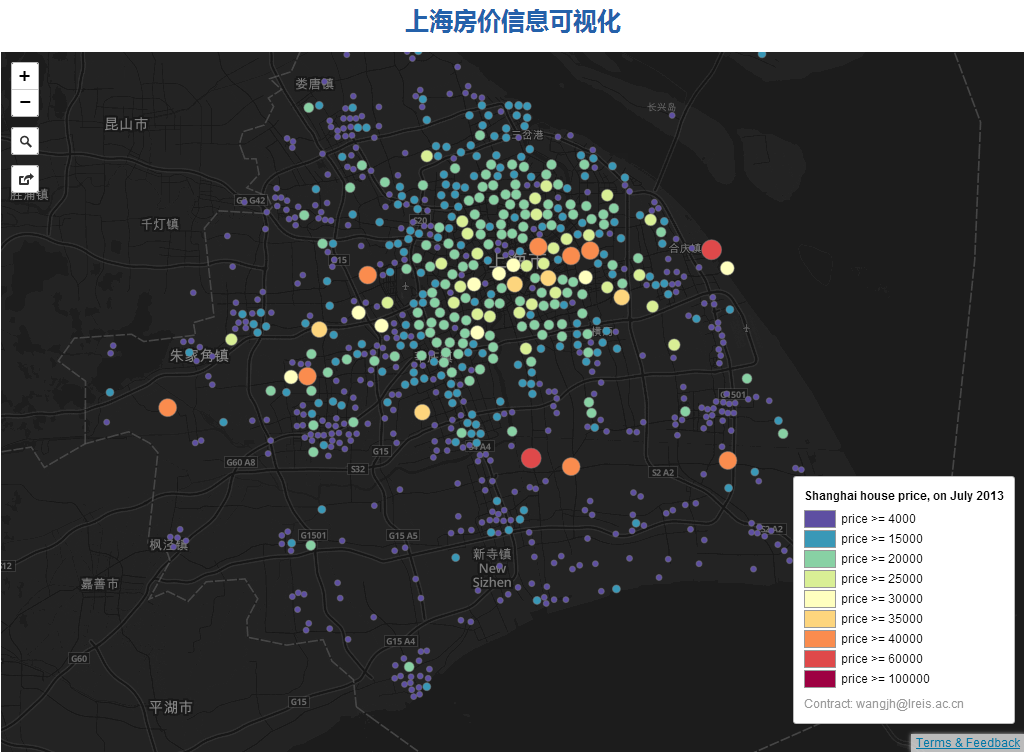
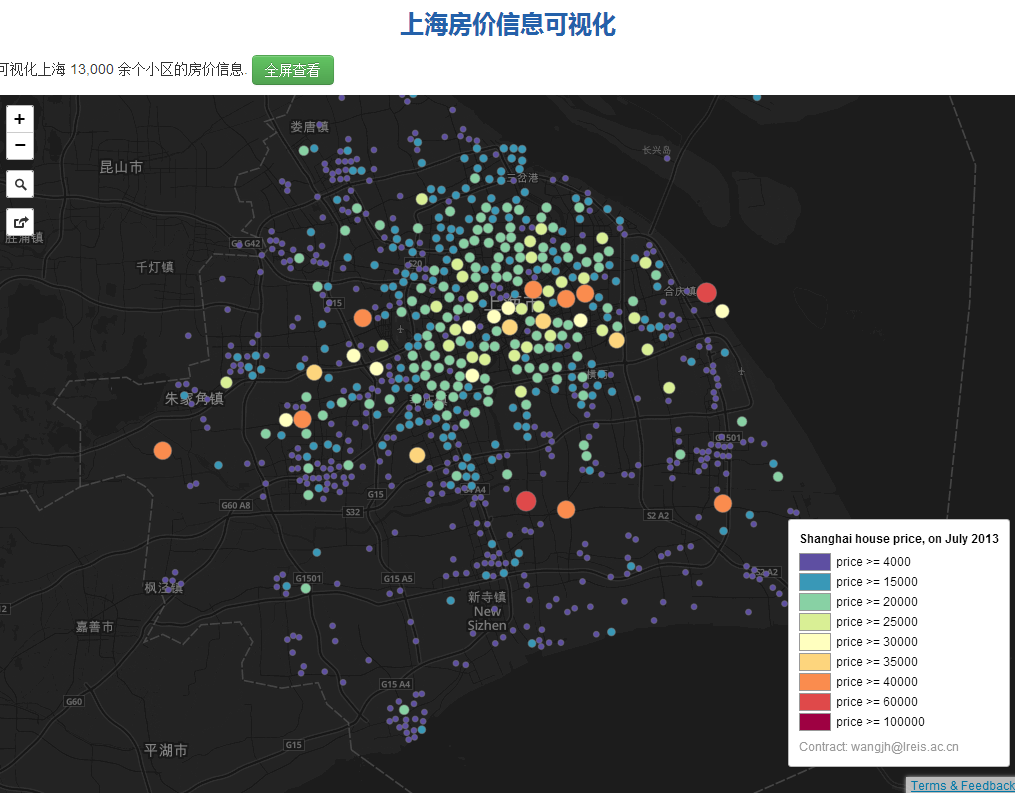
big change

diff --git a/guangzhou.htm b/guangzhou.htm
@@ -3,7 +3,7 @@
     <meta name="viewport" content="width=device-width, initial-scale=1">
     <meta content="text/html; charset=UTF-8" http-equiv="Content-Type">
 
-    <title>全国重点城市房价信息可视化</title>
+    <title>广州房价信息可视化</title>
 
     <link href="css/bootstrap.css" rel="stylesheet">
     <link href="css/style.css" rel="stylesheet">
@@ -16,7 +16,7 @@
  <body >
      <div class="container">
       <div class="masthead">
-        <h3 class="muted">全国重点城市房价信息可视化</h3>
+        <h3 class="muted">重点城市房价信息可视化</h3>
         <div class="navbar">
           <div class="navbar-inner">
             <div class="container">
@@ -33,21 +33,38 @@
         </div><!-- /.navbar -->
       </div><!-- /.masthead -->
   <center>
-		<h3>广州房价信息可视化（待完善）</h3>
-	</center>
+    <h3>广州房价信息可视化</h3>
+  </center>
+
+ <p>可视化广州 5,000 余个小区的房价信息。<a href="http://a.tiles.mapbox.com/v3/hellowangjh.g6p8e9jf.html#11/23.157722401082/113.3517837524414" class="btn btn-success"> 全屏查看</a>
+  </p>
+
+	<iframe width='100%' height='700px' frameBorder='0' src='http://a.tiles.mapbox.com/v3/hellowangjh.g6p8e9jf.html#11/23.157722401082/113.3517837524414'></iframe>
+	
+  <!-- Baidu Button BEGIN -->
+  <div id="bdshare" class="bdshare_t bds_tools get-codes-bdshare">
+  <span class="bds_more">分享到：</span>
+  <a class="bds_qzone"></a>
+  <a class="bds_tsina"></a>
+  <a class="bds_tqq"></a>
+  <a class="bds_renren"></a>
+  <a class="bds_t163"></a>
+  <a class="shareCount"></a>
+  </div>
+  <script type="text/javascript" id="bdshare_js" data="type=tools&amp;uid=0" ></script>
+  <script type="text/javascript" id="bdshell_js"></script>
+  <script type="text/javascript">
+  document.getElementById("bdshell_js").src = "http://bdimg.share.baidu.com/static/js/shell_v2.js?cdnversion=" + Math.ceil(new Date()/3600000)
+  </script>
+  <!-- Baidu Button END -->
+
+  <wb:share-button appkey="6dd8SN" addition="number" type="button" ralateUid="2283242060" default_text="妖都广州房价一览图，看来看看" pic="https%3A%2F%2Fraw.github.com%2FJianghao%2FHousePrice%2Fgh-pages%2Fpic%2Fguangzhou.png"></wb:share-button>
+
+<hr/>
 
     <footer>
       <center>
-        <p>数据来源：各大房产信息发布网站。意见反馈：wangjh@lreis.ac.cn；微博：<a href="http://weibo.com/hellowangjh" target="_blank">@沐洲</a><p>
-
-        <ul class="buttons inline">
-          <li class="share-button">
-          </li>
-          <li>
-            <wb:share-button appkey="6dd8SN" addition="number" type="button" pic="https%3A%2F%2Fraw.github.com%2FJianghao%2FHousePrice%2Fgh-pages%2Fpic%2Fchina.png" default_text="全国70个城市6万个小区房价一览图，看来看看吧" ralateUid="2283242060"></wb:share-button>
-          </li>
-        </ul>
-
+        <p>数据来源：各大房产信息发布网站。意见反馈：wangjh@lreis.ac.cn <a href="http://weibo.com/hellowangjh" target="_blank">@沐洲</a><p>
         <p>© Jianghao Wang 2013, All Right Reserved</p>
       </center>
     </footer>

diff --git a/shenzhen.htm b/shenzhen.htm
@@ -3,7 +3,7 @@
     <meta name="viewport" content="width=device-width, initial-scale=1">
     <meta content="text/html; charset=UTF-8" http-equiv="Content-Type">
 
-    <title>全国重点城市房价信息可视化</title>
+    <title>深圳市房价信息可视化</title>
 
     <link href="css/bootstrap.css" rel="stylesheet">
     <link href="css/style.css" rel="stylesheet">
@@ -16,7 +16,7 @@
  <body >
      <div class="container">
       <div class="masthead">
-        <h3 class="muted">全国重点城市房价信息可视化</h3>
+        <h3 class="muted">重点城市房价信息可视化</h3>
         <div class="navbar">
           <div class="navbar-inner">
             <div class="container">
@@ -33,22 +33,36 @@
         </div><!-- /.navbar -->
       </div><!-- /.masthead -->
   <center>
-		<h3>深圳房价信息可视化（待完善）</h3>
+		<h3>深圳房价信息可视化</h3>
 	</center>
+  <p>可视化深圳 4,500 余个小区的房价信息。<a href="http://a.tiles.mapbox.com/v3/hellowangjh.g6palilf/page.html#11/22.6131/114.1692" class="btn btn-success"> 全屏查看</a></p>
 
-  
+  <iframe width='100%' height='700px' frameBorder='0' src='https://a.tiles.mapbox.com/v3/hellowangjh.g6palilf.html?secure=1#11/22.612426231236178/114.16923522949219'></iframe>
+
+  <!-- Baidu Button BEGIN -->
+  <div id="bdshare" class="bdshare_t bds_tools get-codes-bdshare">
+  <span class="bds_more">分享到：</span>
+  <a class="bds_qzone"></a>
+  <a class="bds_tsina"></a>
+  <a class="bds_tqq"></a>
+  <a class="bds_renren"></a>
+  <a class="bds_t163"></a>
+  <a class="shareCount"></a>
+  </div>
+  <script type="text/javascript" id="bdshare_js" data="type=tools&amp;uid=0" ></script>
+  <script type="text/javascript" id="bdshell_js"></script>
+  <script type="text/javascript">
+  document.getElementById("bdshell_js").src = "http://bdimg.share.baidu.com/static/js/shell_v2.js?cdnversion=" + Math.ceil(new Date()/3600000)
+  </script>
+  <!-- Baidu Button END -->
+
+  <wb:share-button appkey="6dd8SN" addition="number" type="button" ralateUid="2283242060" default_text="雌都深圳房价一览图，看来看看" pic="https%3A%2F%2Fraw.github.com%2FJianghao%2FHousePrice%2Fgh-pages%2Fpic%2Fshenzhen.png"></wb:share-button>
+
+<hr/>
+
     <footer>
       <center>
-        <p>数据来源：各大房产信息发布网站。意见反馈：wangjh@lreis.ac.cn；微博：<a href="http://weibo.com/hellowangjh" target="_blank">@沐洲</a><p>
-
-        <ul class="buttons inline">
-          <li class="share-button">
-          </li>
-          <li>
-            <wb:share-button appkey="6dd8SN" addition="number" type="button" pic="https%3A%2F%2Fraw.github.com%2FJianghao%2FHousePrice%2Fgh-pages%2Fpic%2Fchina.png" default_text="全国70个城市6万个小区房价一览图，看来看看吧" ralateUid="2283242060"></wb:share-button>
-          </li>
-        </ul>
-
+        <p>数据来源：各大房产信息发布网站。意见反馈：wangjh@lreis.ac.cn <a href="http://weibo.com/hellowangjh" target="_blank">@沐洲</a><p>
         <p>© Jianghao Wang 2013, All Right Reserved</p>
       </center>
     </footer>

diff --git a/index.htm b/index.htm
@@ -16,7 +16,7 @@
  <body >
      <div class="container">
       <div class="masthead">
-        <h3 class="muted">全国重点城市房价信息可视化</h3>
+        <h3 class="muted">重点城市房价信息可视化</h3>
         <div class="navbar">
           <div class="navbar-inner">
             <div class="container">
@@ -33,9 +33,13 @@
         </div><!-- /.navbar -->
       </div><!-- /.masthead -->
   <center>
-		<h3>全国房价信息一张图</h3>
-	</center>
-  <p>从各大房地产中介网站获取超过60个重点城市，70,000个小区的房价信息，利用Mapbox发布。</p>
+    <h3>重点城市小区楼盘房价信息一张图  
+      <a href="https://a.tiles.mapbox.com/v3/hellowangjh.map-r3wc4exh.html?secure=1#5/37.24782120155428/106.3916015625" class="btn btn-success"> 全屏查看</a>
+    </h3>
+  </center>
+  <p>从房地产中介网站获取超过60个重点城市，80,000个小区的房价信息，一张图展现，自由查看。</p>
+
+  <iframe width='100%' height='700px' frameBorder='0' src='https://a.tiles.mapbox.com/v3/hellowangjh.map-r3wc4exh.html?secure=1#5/37.24782120155428/106.3916015625'></iframe>
 
   <!-- Baidu Button BEGIN -->
   <div id="bdshare" class="bdshare_t bds_tools get-codes-bdshare">
@@ -56,11 +60,11 @@
 
   <wb:share-button appkey="6dd8SN" addition="number" type="button" pic="https%3A%2F%2Fraw.github.com%2FJianghao%2FHousePrice%2Fgh-pages%2Fpic%2Fchina.png" default_text="全国70个城市6万个小区房价一览图，看来看看吧" ralateUid="2283242060"></wb:share-button>
 
-  <iframe width='100%' height='700px' frameBorder='0' src='https://a.tiles.mapbox.com/v3/jianghao.g6h870en.html?secure=1#5/33.8339199536547/111.3134765625'></iframe>
+<hr/>
 
     <footer>
       <center>
-        <p>数据来源：各大房产信息发布网站。意见反馈：wangjh@lreis.ac.cn；微博：<a href="http://weibo.com/hellowangjh" target="_blank">@沐洲</a><p>
+        <p>数据来源：各大房产信息发布网站。意见反馈：wangjh@lreis.ac.cn <p>
 
         <ul class="buttons inline">
           <li class="share-button">

diff --git a/shanghai.htm b/shanghai.htm
@@ -17,7 +17,7 @@
  <body >
      <div class="container">
       <div class="masthead">
-        <h3 class="muted">全国重点城市房价信息可视化</h3>
+        <h3 class="muted">重点城市房价信息可视化</h3>
         <div class="navbar">
           <div class="navbar-inner">
             <div class="container">
@@ -34,9 +34,11 @@
         </div><!-- /.navbar -->
       </div><!-- /.masthead -->
   <center>
-		<h3>上海房价信息可视化</h3>
+    <h3>上海房价信息可视化</h3>
   </center>
-  <p>从各大房地产中介网站获取上海 13,000 余个小区的房价信息，利用Mapbox发布。</p>
+  <p>可视化上海 13,000 余个小区的房价信息. <a href="https://a.tiles.mapbox.com/v3/hellowangjh.map-an3wdxgy.html?secure=1#10/31.061757223074363/121.48269653320312" class="btn btn-success"> 全屏查看</a></p>
+
+  <iframe width='100%' height='700px' frameBorder='0' src='https://a.tiles.mapbox.com/v3/hellowangjh.map-an3wdxgy.html?secure=1#10/31.061757223074363/121.48269653320312'></iframe>
 
   <!-- Baidu Button BEGIN -->
   <div id="bdshare" class="bdshare_t bds_tools get-codes-bdshare">
@@ -57,11 +59,11 @@
 
   <wb:share-button appkey="6dd8SN" addition="number" type="button" ralateUid="2283242060" default_text="魔都上海房价一览图，看来看看" pic="https%3A%2F%2Fraw.github.com%2FJianghao%2FHousePrice%2Fgh-pages%2Fpic%2Fshanghai.png"></wb:share-button>
 
-  <iframe width='100%' height='700px' frameBorder='0' src='https://a.tiles.mapbox.com/v3/hellowangjh.map-an3wdxgy.html?secure=1#10/31.061757223074363/121.48269653320312'></iframe>
+<hr/>
 
     <footer>
       <center>
-        <p>数据来源：各大房产信息发布网站。意见反馈：wangjh@lreis.ac.cn；微博：<a href="http://weibo.com/hellowangjh" target="_blank">@沐洲</a><p>
+        <p>数据来源：各大房产信息发布网站。意见反馈：wangjh@lreis.ac.cn <a href="http://weibo.com/hellowangjh" target="_blank">@沐洲</a><p>
         <p>© Jianghao Wang 2013, All Right Reserved</p>
       </center>
     </footer>

diff --git a/beijing.htm b/beijing.htm
@@ -16,7 +16,7 @@
  <body >
      <div class="container">
       <div class="masthead">
-        <h3 class="muted">全国重点城市房价信息可视化</h3>
+        <h3 class="muted">重点城市房价信息可视化</h3>
         <div class="navbar">
           <div class="navbar-inner">
             <div class="container">
@@ -33,9 +33,11 @@
         </div><!-- /.navbar -->
       </div><!-- /.masthead -->
   <center>
-		<h3>北京房价信息可视化</h3>
-	</center>
-  <p>从各大房地产中介网站获取北京 7,000 余个小区的房价信息，利用Mapbox发布。</p>
+    <h3>北京房价信息可视化</h3>
+  </center>
+  <p>可视化北京 7,000 余个小区的房价信息. <a href="http://a.tiles.mapbox.com/v3/hellowangjh.map-lnc97wty.html#10/40.024985445869156/116.29371643066406" class="btn btn-success"> 全屏查看</a></p>
+
+  <iframe width='100%' height='700px' frameBorder='1' src='http://a.tiles.mapbox.com/v3/hellowangjh.map-lnc97wty.html#10/40.024985445869156/116.29371643066406'></iframe>
 
   <!-- Baidu Button BEGIN -->
   <div id="bdshare" class="bdshare_t bds_tools get-codes-bdshare">
@@ -56,11 +58,11 @@
 
   <wb:share-button appkey="6dd8SN" addition="number" type="button" ralateUid="2283242060" default_text="帝都北京房价一览图，看来看看" pic="https%3A%2F%2Fraw.github.com%2FJianghao%2FHousePrice%2Fgh-pages%2Fpic%2Fbeijing.png"></wb:share-button>
 
-  <iframe width='100%' height='700px' frameBorder='1' src='https://a.tiles.mapbox.com/v3/hellowangjh.map-lnc97wty.html?secure=1#9/40.24913603826261/117.0318603515625'></iframe>
+  <hr/>
 
     <footer>
       <center>
-        <p>数据来源：各大房产信息发布网站。意见反馈：wangjh@lreis.ac.cn；微博：<a href="http://weibo.com/hellowangjh" target="_blank">@沐洲</a><p>
+        <p>数据来源：各大房产信息发布网站。意见反馈：wangjh@lreis.ac.cn <a href="http://weibo.com/hellowangjh" target="_blank">@沐洲</a><p>
         <p>© Jianghao Wang 2013, All Right Reserved</p>
       </center>
     </footer>
